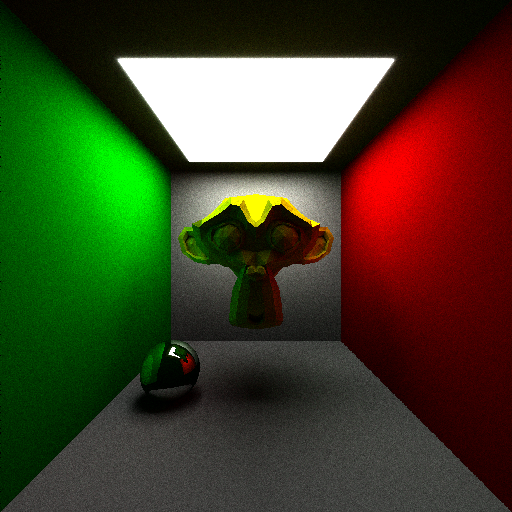
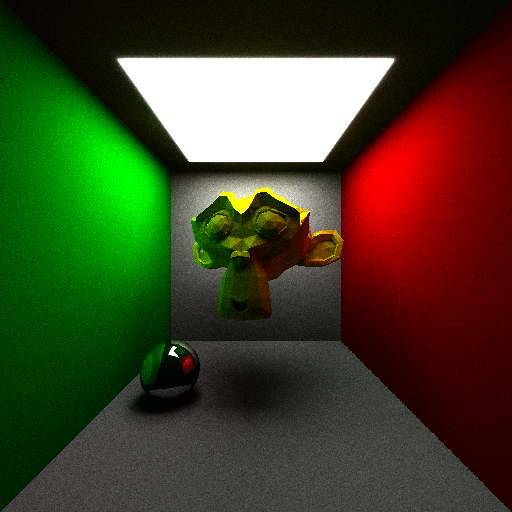
增加模型旋转

diff --git a/MonteCarlo/src/Model.h b/MonteCarlo/src/Model.h
@@ -37,7 +37,7 @@ public:
 	bool load(const std::string& path);
 	Model() {};
 	Model(const std::string& path);
-	void rotate();
+	void rotate(float angleRadians, const glm::vec3& axis);
 	void scale(float scaleFactor);
 
 };
